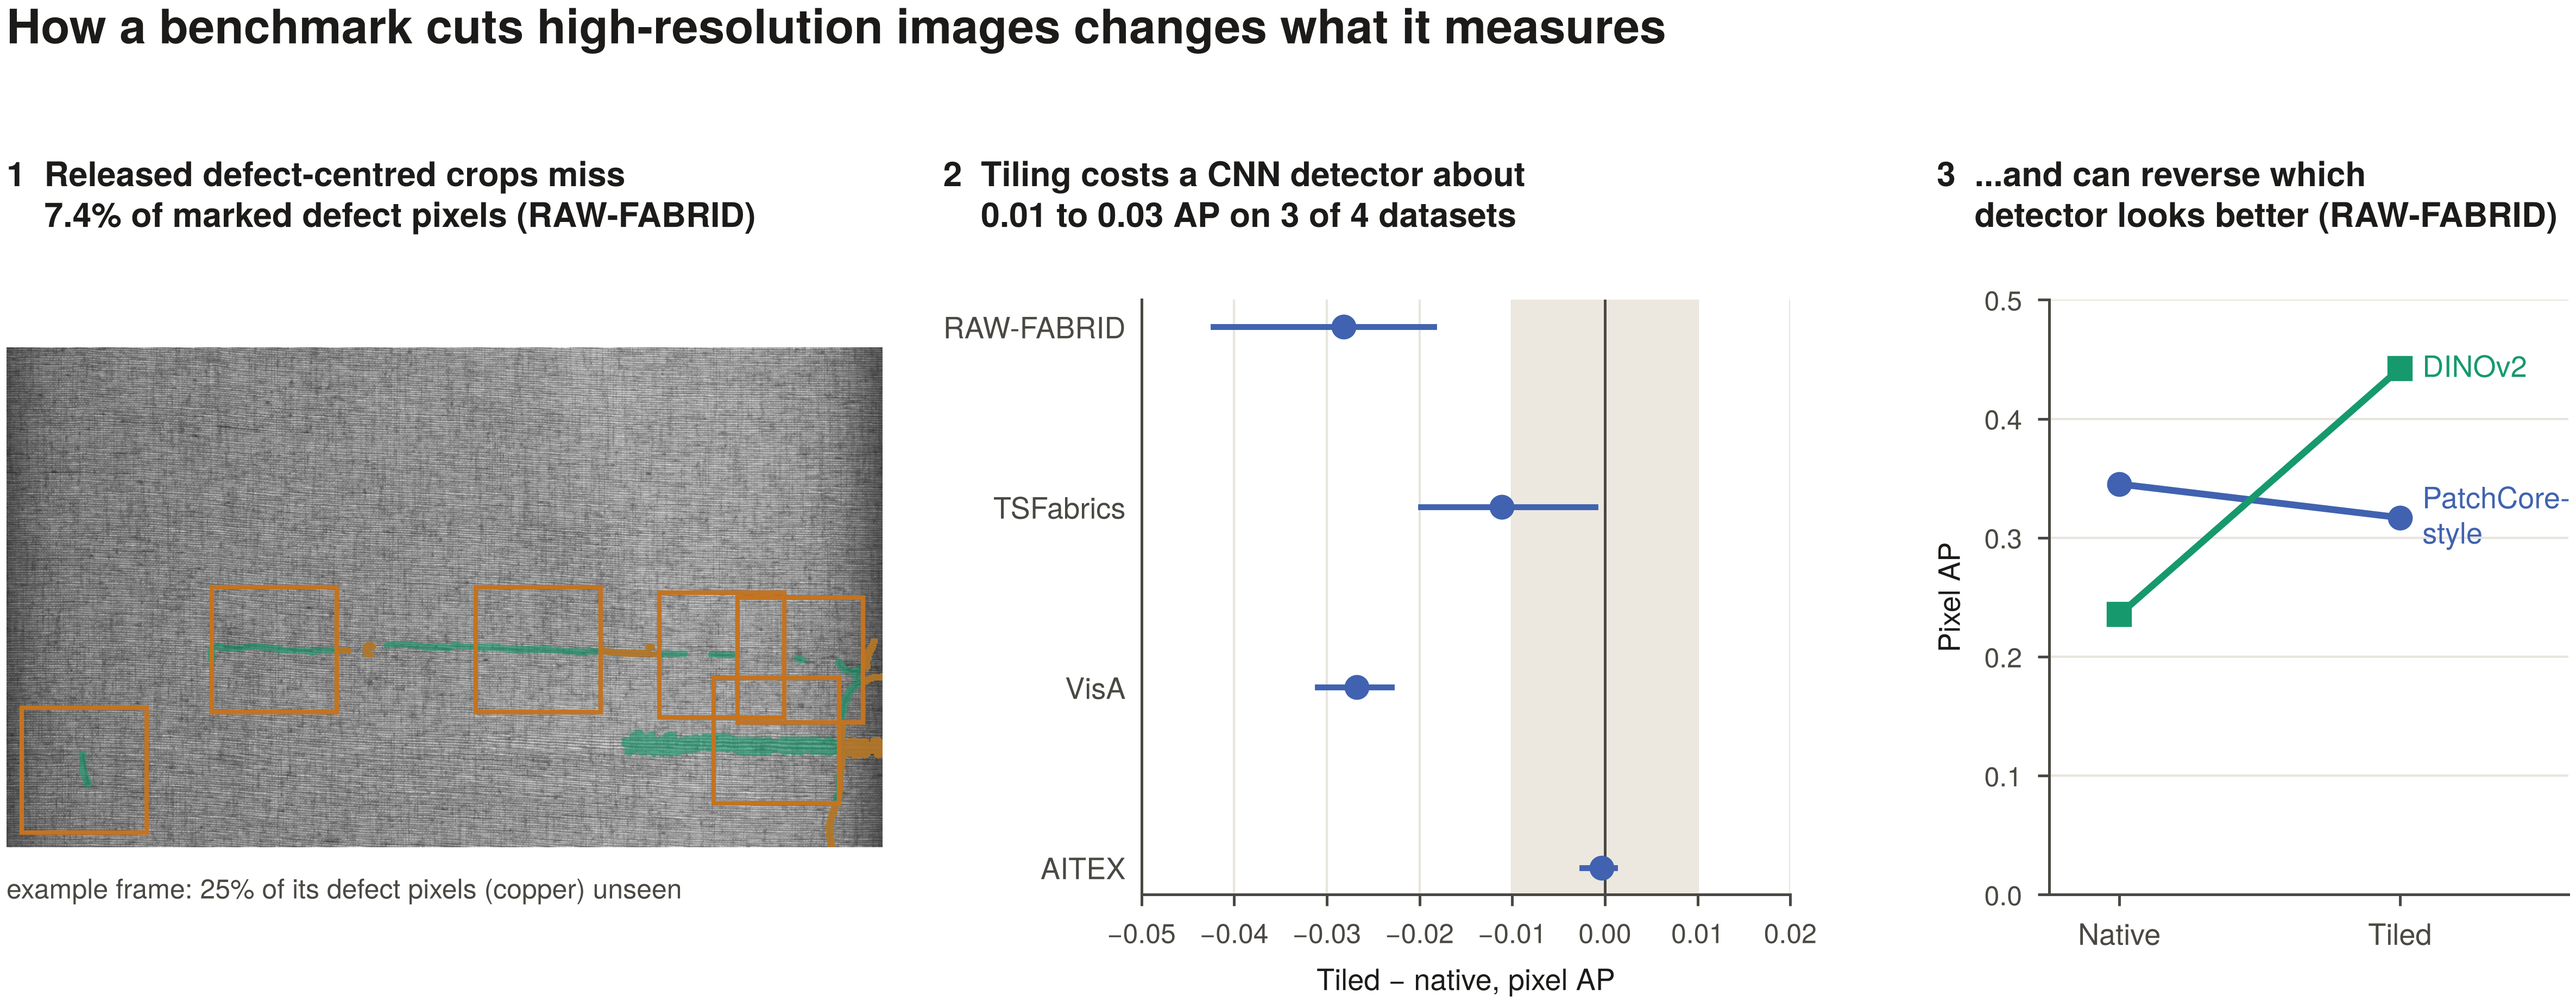
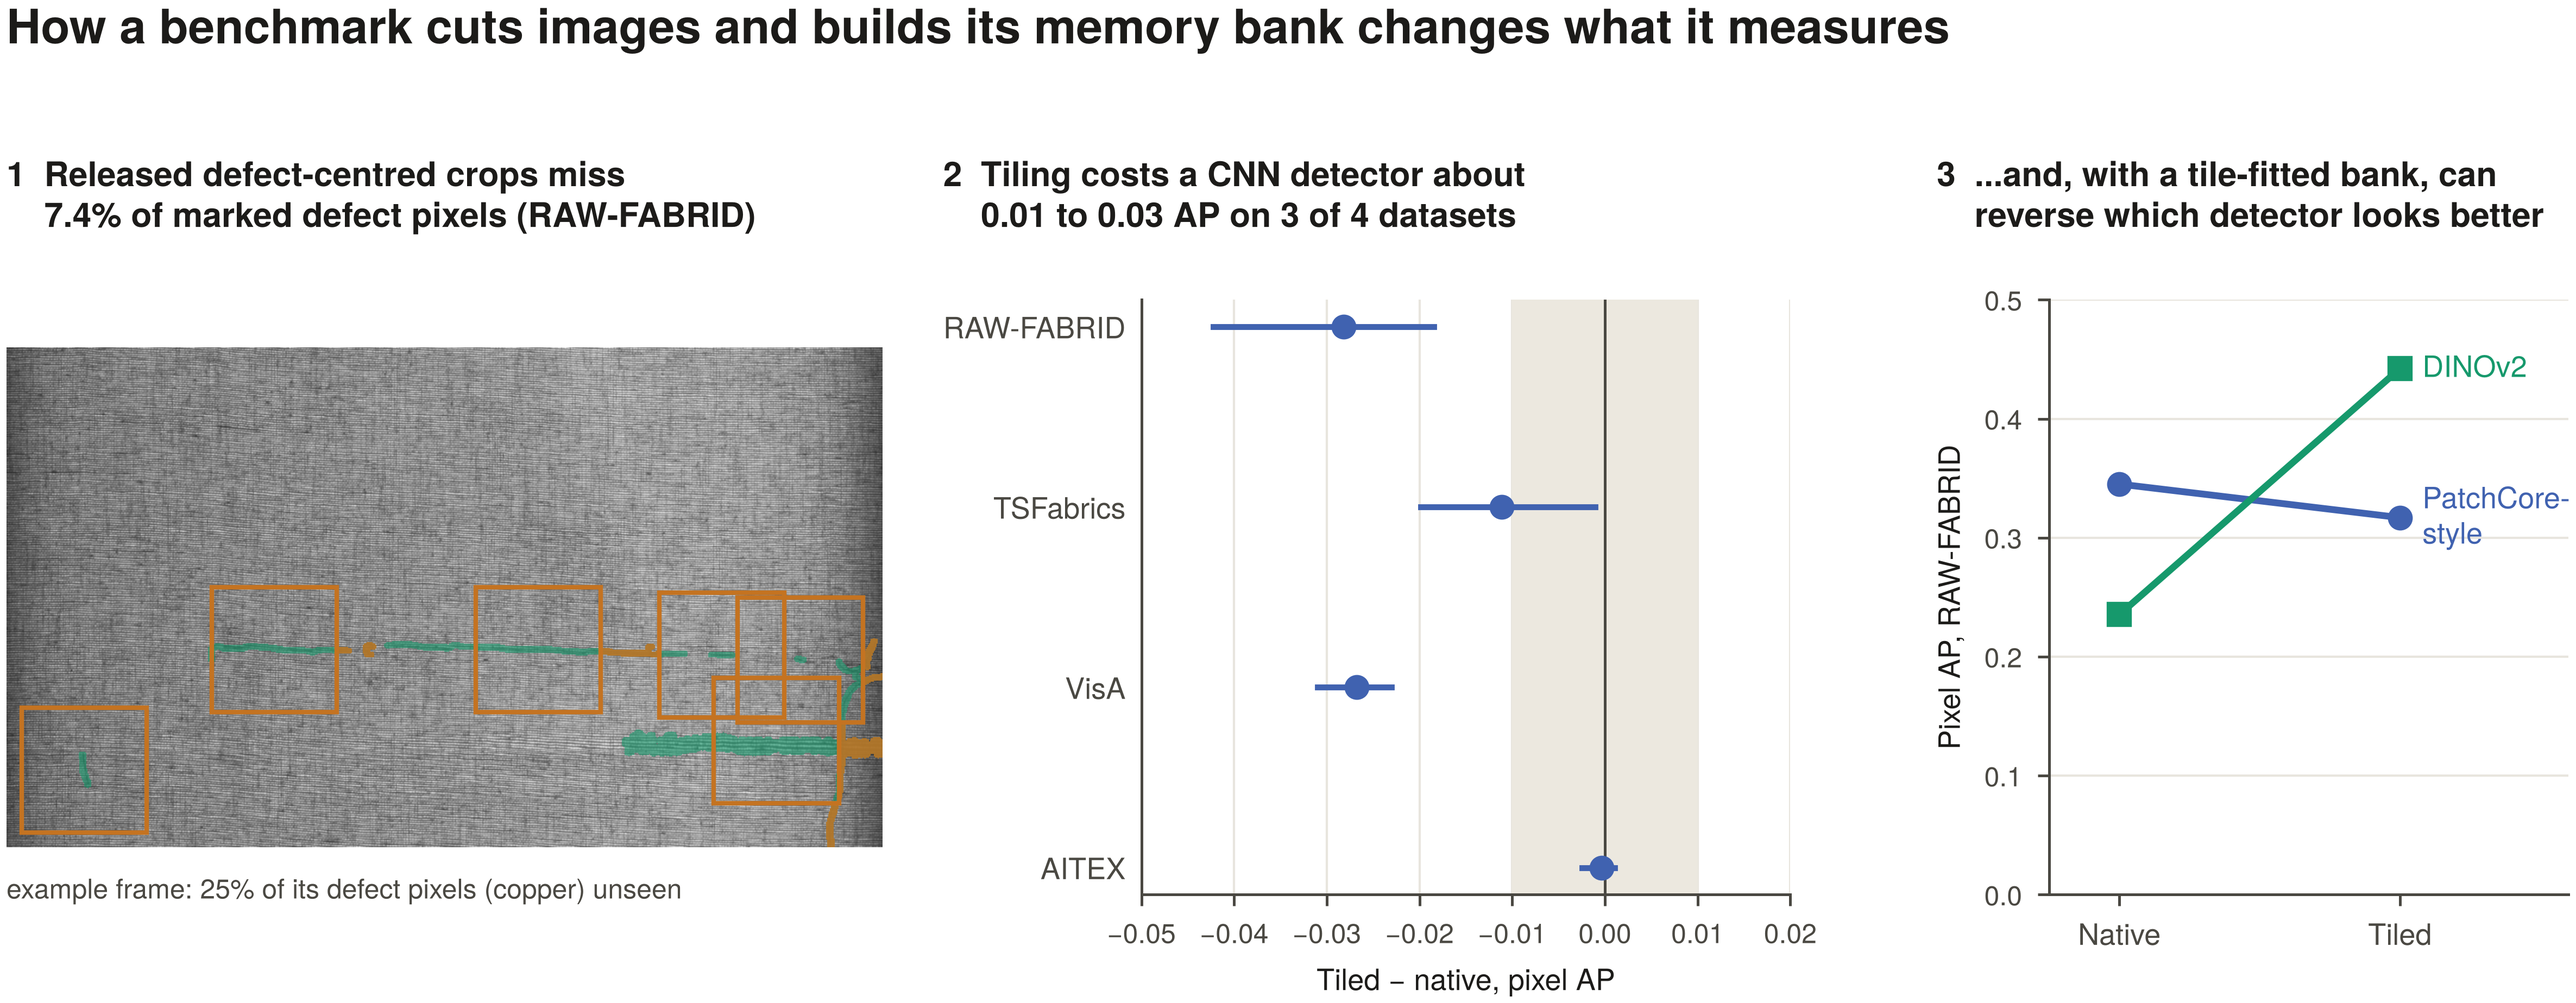
Fix sliver classification for overlapping windows; bound E2 wording; graphical abstract states bank condition

Changed region(s): [[0.2184, 0.0, 0.7489, 0.0617], [0.7801, 0.1542, 0.9985, 0.2468], [0.7489, 0.4627, 0.7801, 0.6786]]

diff --git a/audit_experiments/code/p5_fragmentation.py b/audit_experiments/code/p5_fragmentation.py
@@ -5,8 +5,8 @@ defect mask and each layout (R2 grid; released/guided practice A where it exists
   - cut: some window sees part of the component but no single window holds all of it;
   - unseen: no window sees any of it (only possible for practice A), counted separately;
   - oversize: bounding box larger than 256 pixels on either side (no tile can hold it), reported separately.
-Positive patches (>= 1 marked pixel) under 1% defect are split into slivers from cut components and natural
-small components that are whole inside the patch.
+Positive patches (>= 1 marked pixel) under 1% defect are split into clipped slivers (the patch holds only part of
+some region) and whole small regions (every region in the patch lies wholly inside it).
 Usage: python p5_fragmentation.py --dataset aitex|visa|rawfabrid --data <path> --out <json>"""
 import argparse, json, sys
 from pathlib import Path
@@ -38,7 +38,9 @@ def audit(mask, windows):
     for wc in win_counts:
         a = sum(wc.values())
         if a:
-            from_cut = any(comps[c - 1]['cut'] and v < comps[c - 1]['px'] for c, v in wc.items())
+            # a patch is clipped if it holds only part of some region, even when another (overlapping) window holds
+            # that region whole; the earlier rule also required the region to be split in every window
+            from_cut = any(v < comps[c - 1]['px'] for c, v in wc.items())
             patches.append({'frac': a / (S * S), 'from_cut': bool(from_cut)})
     return comps, patches
 

diff --git a/audit_experiments/code/fig_graphical_abstract.py b/audit_experiments/code/fig_graphical_abstract.py
@@ -26,7 +26,7 @@ rf = j('rawfabrid/full/analysis.json')
 
 fig = plt.figure(figsize=(13 / 2.54 * 1.6, 5 / 2.54 * 1.6))
 gs = fig.add_gridspec(1, 3, width_ratios=[1.35, 1, 0.8], wspace=0.38, left=0.02, right=0.98, top=0.72, bottom=0.14)
-fig.text(0.02, 0.97, 'How a benchmark cuts high-resolution images changes what it measures', fontsize=10.5, fontweight='bold')
+fig.text(0.02, 0.97, 'How a benchmark cuts images and builds its memory bank changes what it measures', fontsize=10.5, fontweight='bold')
 
 # 1. coverage gap
 ax = fig.add_subplot(gs[0])
@@ -78,9 +78,9 @@ ax.set_xlim(-0.25, 1.6)
 ax.set_ylim(0, 0.5)   # axis from zero so the crossing is not exaggerated
 ax.set_yticks([0, 0.1, 0.2, 0.3, 0.4, 0.5])
 ax.tick_params(axis='y', labelsize=6)
-ax.set_ylabel('Pixel AP', fontsize=6.5)
+ax.set_ylabel('Pixel AP, RAW-FABRID', fontsize=6.5)
 ax.grid(axis='y')
-TITLES.append((ax, '3  ...and can reverse which\n    detector looks better (RAW-FABRID)'))
+TITLES.append((ax, '3  ...and, with a tile-fitted bank, can\n    reverse which detector looks better'))
 fig.canvas.draw()
 for a, t in TITLES:
     x0 = a.get_tightbbox(fig.canvas.get_renderer()).transformed(fig.transFigure.inverted()).x0 if a is not TITLES[0][0] else a.get_position().x0

diff --git a/audit_experiments/PROTOCOL_5_RUNLOG.md b/audit_experiments/PROTOCOL_5_RUNLOG.md
@@ -104,3 +104,12 @@ Dated record of what ran and of every change made after `PROTOCOL_5_IMPLEMENTATI
 - Descriptive: DINOv2 full-frame bank on tiles RAW-FABRID 0.510 (+0.035 [-0.002, +0.071]) vs VisA 0.014 (-0.293). WRN-50 matched native minus matched tiled: +0.024 [+0.017, +0.035] RAW-FABRID, +0.083 [+0.071, +0.096] VisA. DINOv2 minus WRN-50 on RAW-FABRID: matched native +0.117 [+0.057, +0.184] 7/7; matched tiled +0.187 [+0.103, +0.264] 6/7; tile bank at native -0.020 [-0.086, +0.051].
 - Memory figures from the runner are unreliable (sampled allocations, transient attention peaks missed) and are not reported. Timing medians are reported.
 - Manuscript: Section 5.7 extended with E2 and Figure 13; one sentence each in the abstract, introduction, Section 4.1, 4.3, 5.6, discussion, limitations and conclusion. Figure 12(b) marker changed to a circle to match the detector shape code.
+
+## 2026-11-23 13:40 Response to an external readiness review (23 Nov)
+- Fragmentation sliver rule fixed (p5_fragmentation.py): a sub-1% patch now counts as clipped whenever it holds only part of some region, even if an overlapping window holds that region whole; the old rule also required the region to be split in every window. Re-run on all three datasets (pre-fix files in results_p5/_before_frag_fix/). Changed: RAW-FABRID released crops 31 -> 89 of 157 clipped; VisA grid 712 -> 748 of 1,076 (edge-aligned tiles overlap). AITEX (both layouts) and RAW-FABRID grid unchanged. Table 6 column renamed; Sections 3.3 and 5.5 updated.
+- E2 wording bounded: the paired banks also differ in DINOv2 token-grid alignment (256 is not a multiple of 14), border padding and sampled positions, which E2 does not separate. Condition (b) of the reading rule is stated as ruling out a large deficit, not as equivalence. Recall at 1% is described as computed from non-defect pixels of all test images, not an independently calibrated operating point.
+- Abstract and highlight: the 0.022 to 0.032 range is the range of detector means, with a gain on every roll (wording was ambiguous).
+- RAW-FABRID reference context: none of the 1,120 source-frame uses in the E2 banks has a mask file in the archive (205 mask files in total), so the earlier caveat about defect context in full-frame bank vectors does not apply to these frames.
+- Reference 7 verified directly by cloning the repository: commit 37dc53b exists, title and author (H. Zhu) match, it studies point position within tiles on RAW-FABRID and contains no audit of released-crop coverage.
+- Graphical abstract: title and panel 3 now state that the reversal arises with a tile-fitted bank.
+- Not done (author decisions): a token-aligned sensitivity run, full-VisA evaluation instead of the sorted 40-image subset, and an archived artifact bundle (e.g. Zenodo) with raw-input hashes.
